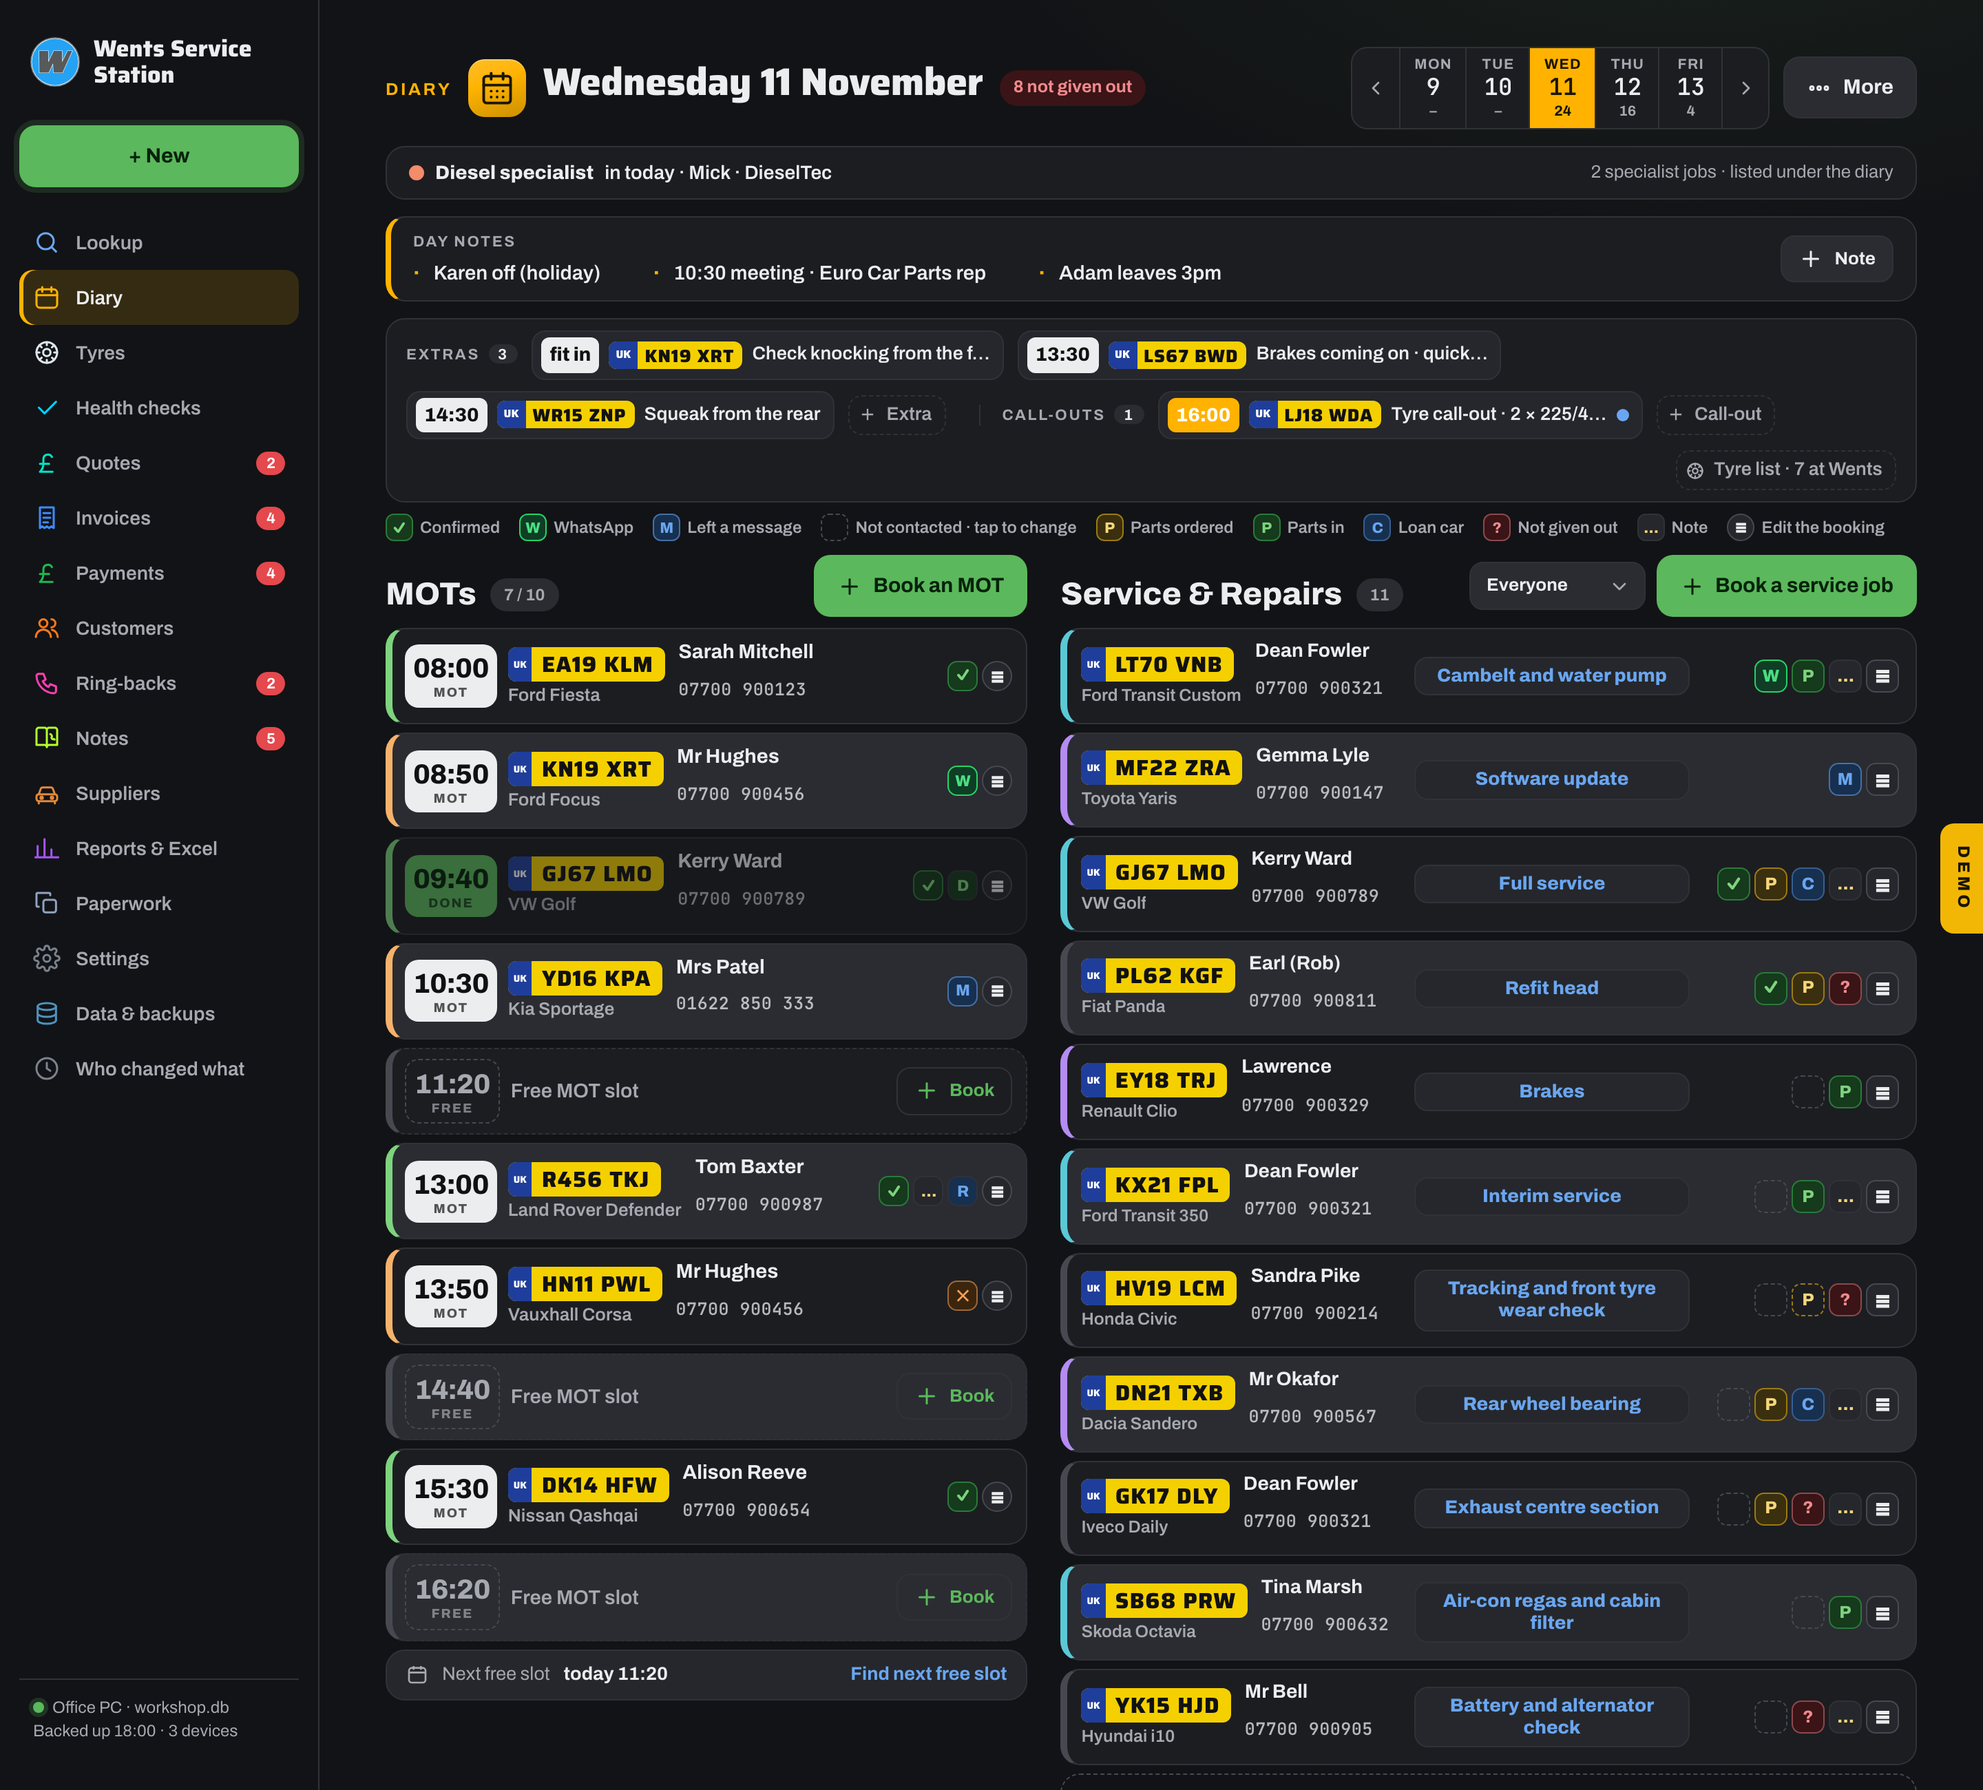
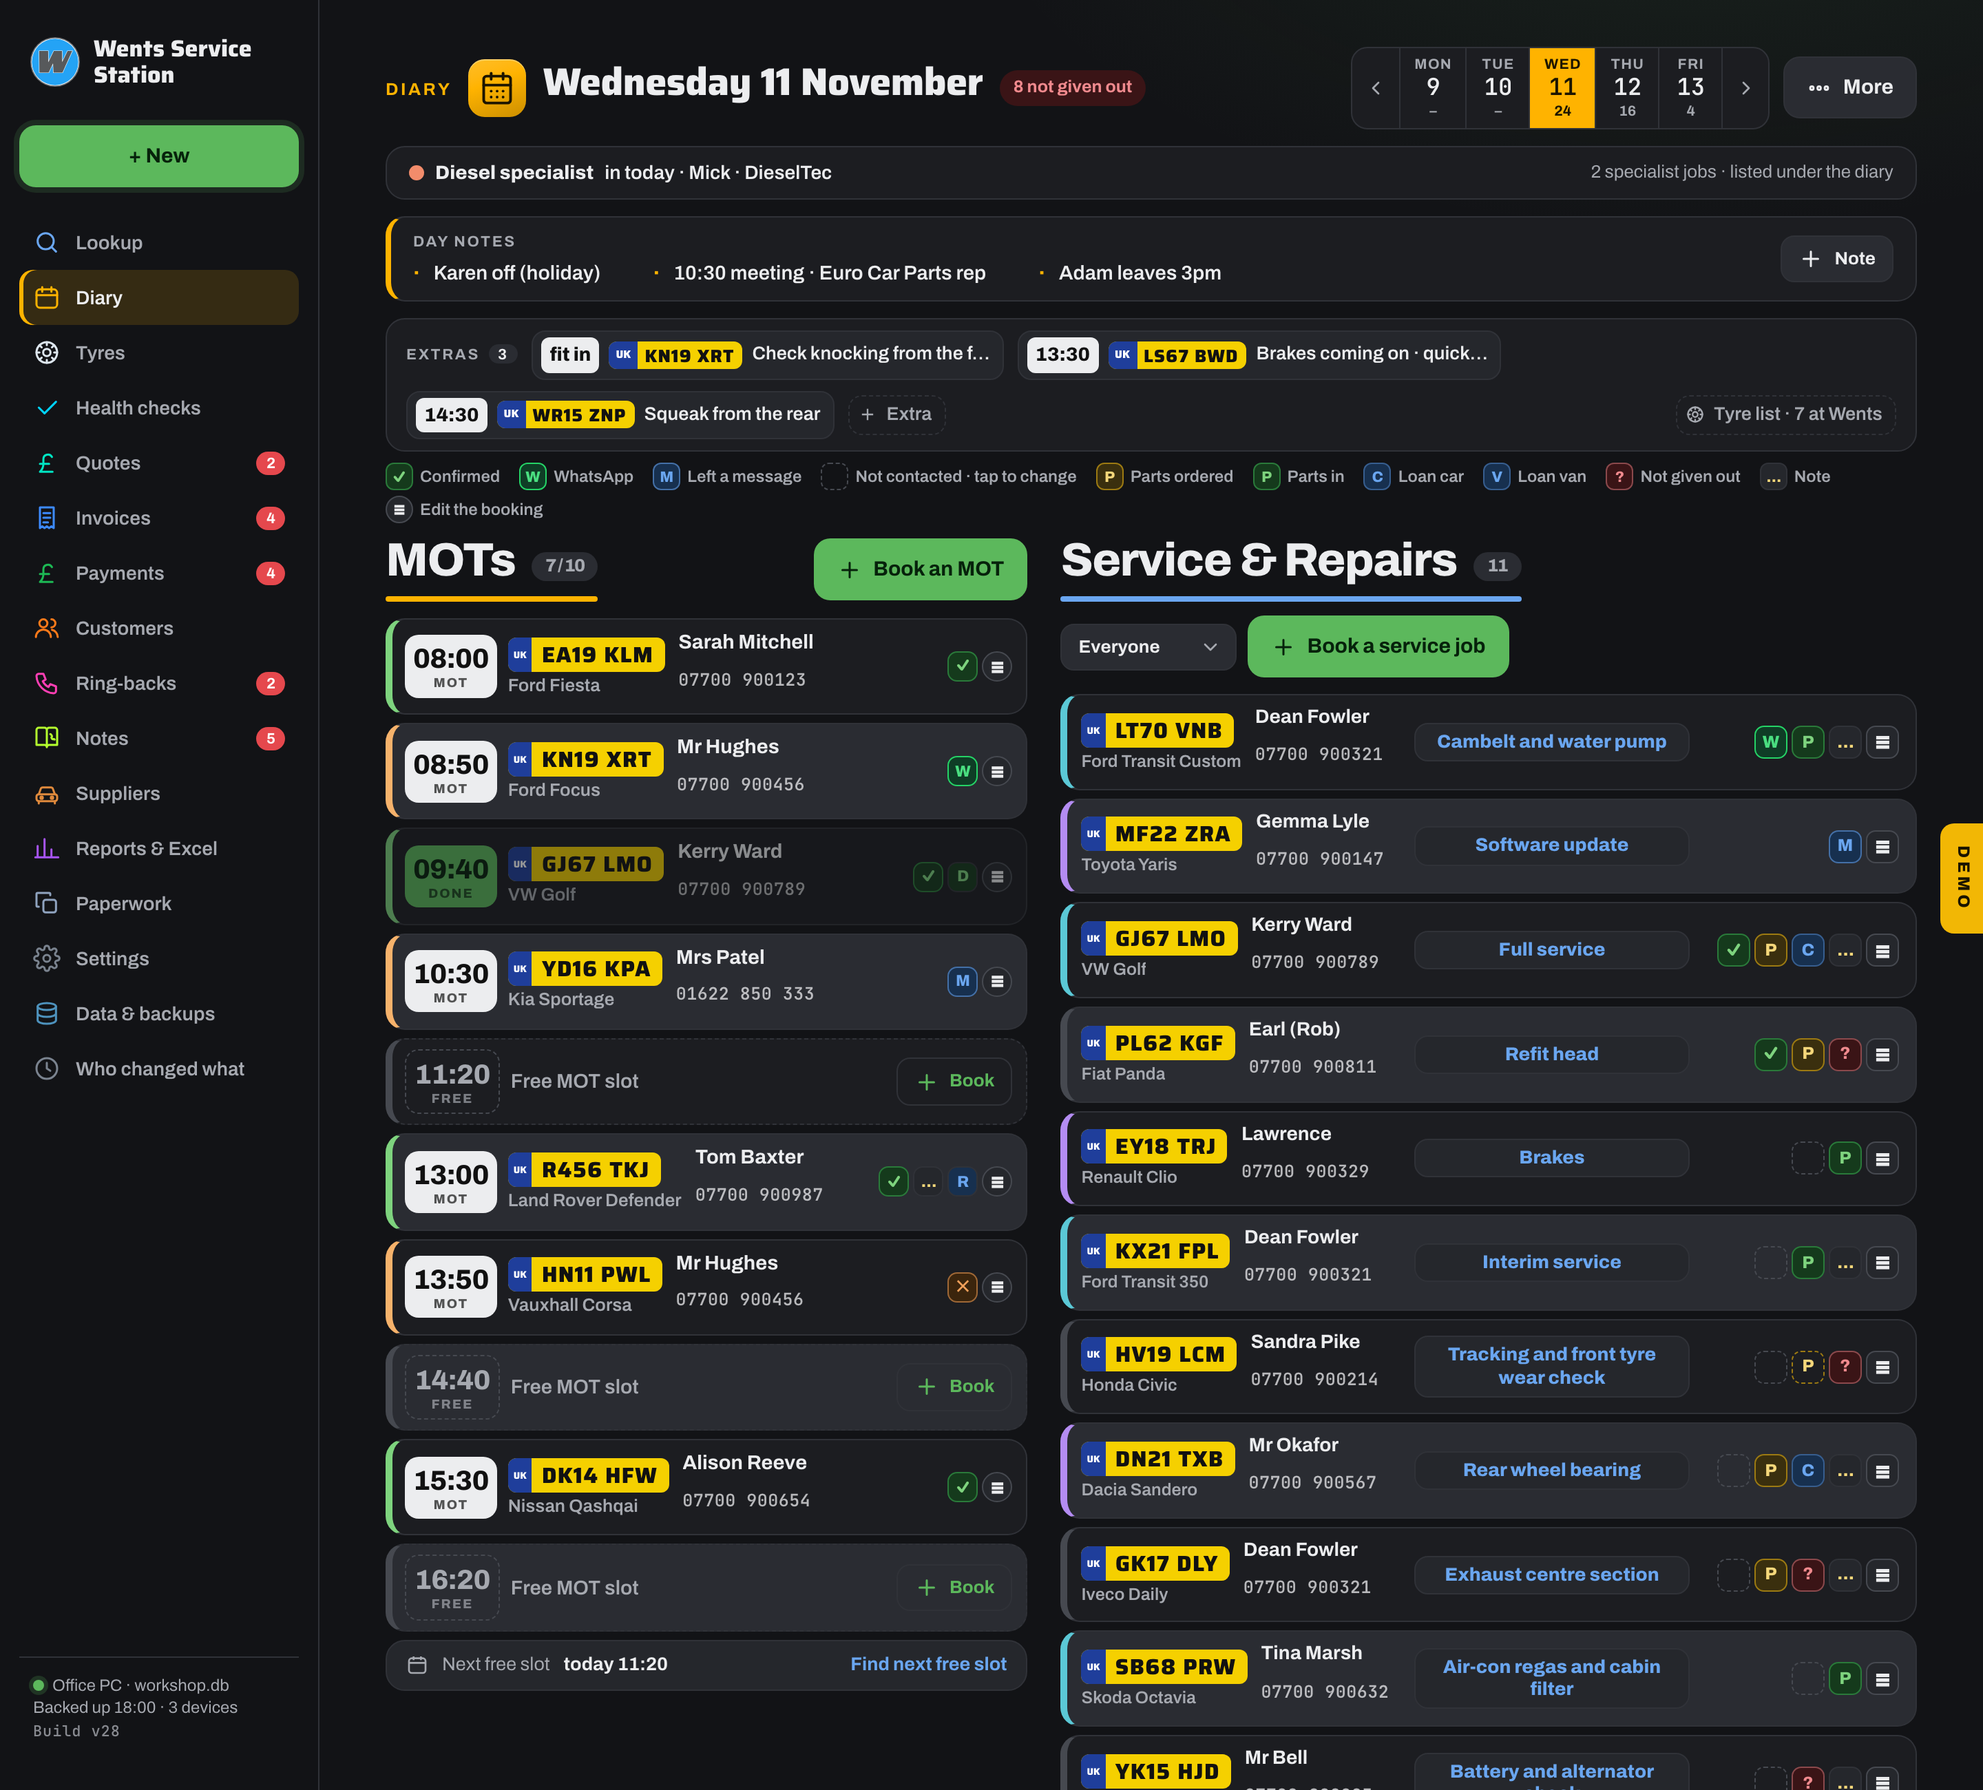
Mock round 32: call-outs removed from the top-of-diary strip (Tyre list link kept with Extras), Loan van added to the legend and the loan field relabelled Courtesy car or van, MOTs and Service & Repairs column titles bigger and heavier with a colour bar under each (amber for MOTs, blue for Service);

diff --git a/mock/index.html b/mock/index.html
@@ -885,6 +885,7 @@ a.stat{display:block} a.stat:hover{border-color:var(--line-strong)}
 /* round 19 · diary: notes across the top, section buttons, booking form in two equal columns */
 .secctl{display:flex;gap:8px;align-items:center;flex-wrap:wrap} .secctl .sel{margin:0}
 .dvsec .sechd{margin-bottom:8px} .dvsec .sechd .btn.pri{box-shadow:none}
+.dv .dvsec.colh .sechd{align-items:center;margin-bottom:12px} .dv .dvsec.colh h2{position:relative;font-size:30px;font-weight:900;letter-spacing:-.025em;line-height:1;padding:0 0 12px;gap:12px;align-items:baseline} .dv .dvsec.colh h2::after{content:'';position:absolute;left:0;bottom:0;height:4px;width:100%;border-radius:2px;background:var(--hc)} .dv .dvsec.colh.mot{--hc:#FFB300} .dv .dvsec.colh.svc{--hc:var(--accent)} .dv .dvsec.colh h2 .pill{font-size:13px;font-weight:800;padding:4px 10px;transform:translateY(-3px)} @media (min-width:1400px){.dv .dvsec.colh h2{font-size:34px}} @media (max-width:600px){.dv .dvsec.colh h2{font-size:26px;padding-bottom:9px} .dv .dvsec.colh h2::after{height:3px}}
 .bk2{display:grid;grid-template-columns:1fr 1fr;gap:0 18px} .bk2>.field{min-width:0} .bk2.bkx{grid-template-columns:repeat(auto-fit,minmax(230px,1fr))}
 .bkbox h2{display:flex;align-items:baseline;gap:12px;flex-wrap:wrap} .bkday{font-size:14px;font-weight:700;color:var(--sc,var(--accent));letter-spacing:.02em}
 .bkbox .regin{font-family:var(--font-mono);font-weight:700;letter-spacing:.06em}
@@ -1643,10 +1644,10 @@ S.diary=()=>{if(pendBook){const r=pendBook;pendBook=null;setTimeout(()=>{openBk(
   const xt=b.k==='xtra'?`<span class="xt"><b>${b.t||'fit in'}</b>${b.mins?' · '+b.mins+' min':''}</span>`:b.k==='tyre'?`<span class="xt"><b>${b.t||'—'}</b> · call-out</span>`:b.k==='spec'?`<span class="xt"><b>${b.t||'—'}</b></span>`:'';
   return `<div class="dvjob k-${b.k}" style="--who:${sp?sp.c:b.who?(WHO[b.who]||{c:'var(--line-strong)'}).c:'var(--line-strong)'}" onclick="openBk('${b.id}')"><div class="bm">${xt?`<div class="jt">${xt}</div>`:''}${carCus(b,i)}${b.k==='tyre'&&b.addr?`<div class="nt">${I.pin} ${esc(b.addr)}</div>`:''}</div><div class="jbx">${b.job?`<span class="jb">${b.job}</span>`:'<span class="muted">No job written down</span>'}</div><div class="rt">${ty?`<span class="pill ${TYCS[ty.r.cs][1]}">${TYCS[ty.r.cs][0]}</span><a class="pill" href="#/tyres/${ty.d}" onclick="event.stopPropagation()">${TYI}Tyre diary</a>`:''}${sqs(b,{cf:!ty,ng:!sp})}${edBtn(b)}</div></div>`};
  const addRow=(l,k)=>`<div class="dvjob add" onclick="openBk('new','${k}')"><span class="muted">${I.plus} ${l}</span></div>`;
- const sec=(k,h,cap,ctl,body)=>show(k)?`<section class="dvsec"><div class="sechd"><div><h2>${h}</h2>${cap?`<p class="cap">${cap}</p>`:''}</div>${ctl||''}</div>${body}</section>`:'';
+ const sec=(k,h,cap,ctl,body)=>show(k)?`<section class="dvsec${k==='svc'?' colh svc':''}"><div class="sechd"><div><h2>${h}</h2>${cap?`<p class="cap">${cap}</p>`:''}</div>${ctl||''}</div>${body}</section>`:'';
  const ab=(t,n=26)=>{t=String(t||'');return t.length>n?t.slice(0,n-1).trim()+'…':t};
  const sx=b=>{const i=bkV(b);return `<button class="dsx ${b.k}" onclick="openBk('${b.id}')" title="${esc(b.job||'')}"><b>${b.t||(b.k==='xtra'?'fit in':'—')}</b>${plate(b.reg,'sm')}<span>${esc(ab(b.job||i.make||i.name))}</span>${b.k==='tyre'&&b.ty?(x=>x?`<i class="d ${TYCS[x.r.cs][1]}" title="${TYCS[x.r.cs][0]}"></i>`:'')(tyFind(b.ty)):''}</button>`};
- const strip=dTab==='all'?`<div class="dvstrip"><div class="lbl">Extras<em>${xtra.length}</em></div><div class="sxs">${xtra.map(sx).join('')}<button class="dsx add" onclick="openBk('new','xtra')">${I.plus}Extra</button></div><div class="lbl">Call-outs<em>${tyr.length}</em></div><div class="sxs">${tyr.map(sx).join('')}<button class="dsx add" onclick="openBk('new','tyre')">${I.plus}Call-out</button><a class="dsx lnk" href="#/tyres/${day}">${TYI}Tyre list · ${tyn.cars} at Wents</a></div></div>`:'';
+ const strip=dTab==='all'?`<div class="dvstrip"><div class="lbl">Extras<em>${xtra.length}</em></div><div class="sxs">${xtra.map(sx).join('')}<button class="dsx add" onclick="openBk('new','xtra')">${I.plus}Extra</button><a class="dsx lnk" href="#/tyres/${day}">${TYI}Tyre list · ${tyn.cars} at Wents</a></div></div>`:'';
  const whoSel=`<select class="sel" onchange="whoF=this.value;go()" title="Whose jobs to show">${[['all','Everyone'],...Object.entries(FITTERS).map(([k,w])=>[k,w.n]),['none','Not given out']].map(([k,l])=>`<option value="${k}" ${whoF===k?'selected':''}>${l}</option>`).join('')}</select>`;
  return `<div class="dv tm-${tmv}">
  <div class="dvh"><div class="dvt"><span class="eyebrow">Diary</span><h1 class="title">${fmt(day,{weekday:'long',day:'numeric',month:'long'})}</h1>${none?`<span class="pill r" title="Jobs not given to anyone yet">${none} not given out</span>`:''}</div>
@@ -1656,9 +1657,9 @@ S.diary=()=>{if(pendBook){const r=pendBook;pendBook=null;setTimeout(()=>{openBk(
  ${sps.length&&dTab==='all'?`<div class="spban">${sps.map(x=>`<span class="spw" style="--c:${x.c}"><i></i><b>${x.n}</b> in today · ${x.who}</span>`).join('')}<span class="spn">${spec.length} specialist job${spec.length===1?'':'s'} · listed under the diary</span></div>`:''}
  ${dTab==='all'?`<div class="dvnotes"><div><div class="lbl">Day notes</div><ul>${notes.map((n,ix)=>`<li><span onclick="editNote(${ix})" title="Edit note">${n}</span><button class="x" onclick="NOTES['${day}'].splice(${ix},1);go()" title="Delete note">${I.x}</button></li>`).join('')||'<li class="none">Nothing noted · who is off, meeting times · prints at the top of the A4 sheet</li>'}</ul></div><button class="btn sm" onclick="addNote()">${I.plus}Note</button></div>`:''}
  ${strip}
- <div class="dvkey"><span><i class="sq cf ok">&#10003;</i>Confirmed</span><span><i class="sq cf wa">W</i>WhatsApp</span><span><i class="sq cf msg">M</i>Left a message</span><span><i class="sq cf none"></i>Not contacted · tap to change</span><span><i class="sq pt ordered">P</i>Parts ordered</span><span><i class="sq pt in">P</i>Parts in</span><span><i class="sq ln">C</i>Loan car</span><span><i class="sq ng">?</i>Not given out</span><span><i class="sq nq">&#8230;</i>Note</span><span><i class="wlb edb">&#8801;</i>Edit the booking</span></div>
+ <div class="dvkey"><span><i class="sq cf ok">&#10003;</i>Confirmed</span><span><i class="sq cf wa">W</i>WhatsApp</span><span><i class="sq cf msg">M</i>Left a message</span><span><i class="sq cf none"></i>Not contacted · tap to change</span><span><i class="sq pt ordered">P</i>Parts ordered</span><span><i class="sq pt in">P</i>Parts in</span><span><i class="sq ln">C</i>Loan car</span><span><i class="sq ln">V</i>Loan van</span><span><i class="sq ng">?</i>Not given out</span><span><i class="sq nq">&#8230;</i>Note</span><span><i class="wlb edb">&#8801;</i>Edit the booking</span></div>
  <div class="cols ${dTab==='all'?'':'one'}">
- ${show('mot')?`<section class="dvsec"><div class="sechd"><div><h2>MOTs <span class="pill ${freeN?'':'g'}">${mot.length} / ${SLOTS.length}</span></h2></div><button class="btn pri" onclick="openBk('new','mot')">${I.plus}Book an MOT</button></div><div class="dvramp">${SLOTS.map(slotRow).join('')}<div class="nextfree">${I.cal}${freeN?`Next free slot <b>${day===TD?'today':fmt(day,{weekday:'long'})} ${freeT[0]}</b>`:'<b>Ramp full</b>'}<a onclick="nextSlot()">Find next free slot</a></div></div></section>`:''}
+ ${show('mot')?`<section class="dvsec colh mot"><div class="sechd"><div><h2>MOTs <span class="pill ${freeN?'':'g'}">${mot.length} / ${SLOTS.length}</span></h2></div><button class="btn pri" onclick="openBk('new','mot')">${I.plus}Book an MOT</button></div><div class="dvramp">${SLOTS.map(slotRow).join('')}<div class="nextfree">${I.cal}${freeN?`Next free slot <b>${day===TD?'today':fmt(day,{weekday:'long'})} ${freeT[0]}</b>`:'<b>Ramp full</b>'}<a onclick="nextSlot()">Find next free slot</a></div></div></section>`:''}
  ${dTab!=='mot'?`<div class="dvr">
  ${sec('svc',`Service &amp; Repairs <span class="pill">${svc.length}</span>`,'',`<div class="secctl">${whoSel}<button class="btn pri" onclick="openBk('new','svc')">${I.plus}Book a service job</button></div>`,`<div class="dvlist">${svc.map(jobRow).join('')||'<div class="empty">Nothing booked.</div>'}${addRow('Add a job','svc')}</div>`)}
  ${dTab==='xtra'?sec('xtra',`Extras <span class="pill y">${xtra.length}</span>`,'Diagnostics and quick checks squeezed in between jobs',`<div class="secctl">${dTab==='xtra'?whoSel:''}<button class="btn tint" onclick="openBk('new','xtra')">${I.plus}Add an extra</button></div>`,`<div class="dvlist">${xtra.map(jobRow).join('')||'<div class="empty">Nothing squeezed in yet.</div>'}${addRow('Add an extra','xtra')}</div>`):''}
@@ -1690,7 +1691,7 @@ const bkModal=()=>{const b=edBk;const i=bkV(b);const d0=b.day||day;const mon0=ad
   <div class="fbox who"><span>Who's on it</span><div class="opts chips fit">${Object.entries(FITTERS).map(([k,w])=>`<button class="${b.who===k?'on':''}" style="--c:${w.c}" onclick="edBk.who='${k}';go()">${w.n}</button>`).join('')}${b.who&&!FITTERS[b.who]?`<button class="on" onclick="edBk.who='${b.who}';go()">${WHO[b.who]?WHO[b.who].n:b.who}</button>`:''}<button class="${!b.who?'on':''}" onclick="edBk.who='';go()">Nobody yet</button></div></div>
   <div class="fbox"><span>Confirmed for the day?</span><div class="opts">${[['ok','Confirmed'],['wa','WhatsApp'],['msg','Left a message'],['noans','No answer']].map(([k,l])=>`<button class="${cfSt(b)===k?'on':''}" onclick="edBk.cf={st:'${cfSt(b)===k?'none':k}',who:ME,at:nowS()};go()">${k==='noans'?'':`<i class="cfi ${k}"></i>`}${l}</button>`).join('')}</div>${b.cf&&b.cf.who?`<div class="muted small fst">${WHO[b.cf.who]?WHO[b.cf.who].n:b.cf.who} · ${b.cf.at}</div>`:''}</div>
   <div class="fbox"><span>Parts</span><div class="opts">${[['ordered','Parts ordered'],['in','Parts in']].map(([v,l])=>`<button class="${b.parts===v?'on':''}" onclick="edBk.parts=edBk.parts==='${v}'?'':'${v}';go()">${l}</button>`).join('')}</div><input class="ptn" value="${esc(b.partsNote||'')}" placeholder="What to order…" oninput="edBk.partsNote=this.value"></div>
-  <div class="fbox"><span>Courtesy car</span><div class="opts">${[['car','Loan car'],['van','Loan van'],['svan','Loan small van']].map(([v,l])=>`<button class="${b.loan===v?'on':''}" onclick="edBk.loan=edBk.loan==='${v}'?'':'${v}';go()">${l}</button>`).join('')}</div></div>
+  <div class="fbox"><span>Courtesy car or van</span><div class="opts">${[['car','Loan car'],['van','Loan van'],['svan','Loan small van']].map(([v,l])=>`<button class="${b.loan===v?'on':''}" onclick="edBk.loan=edBk.loan==='${v}'?'':'${v}';go()">${l}</button>`).join('')}</div></div>
  </div>
  ${b.fresh?'':audPanel('booking',b.id)}
  <div class="btns">${b.fresh?'':`<button class="btn ghost red" onclick="delBk('${b.id}')">Delete</button>${(w=>w?`<button class="btn ghost" onclick="wlShow('${w.id}')">${I.clock}On the waiting list</button>`:`<button class="btn ghost" onclick="wlFlag('${b.id}')">${I.clock}Waiting for earlier slot</button>`)(wlOf(b.id))}${b.k==='tyre'?'':`<button class="btn ghost" onclick="tyAddBk('${b.id}')">${TYI}Add to tyre list</button>`}`}<span style="flex:1"></span><button class="btn" onclick="closeBk()">Cancel</button>${unknown?`<button class="btn tint" onclick="bkPick(true)">Add to an existing customer</button><button class="btn pri" onclick="saveBk('new')">${I.plus}Save as new customer</button>`:''}<button class="btn ${unknown?'':'pri'}" onclick="saveBk()">${I.check}${b.move?'Move':unknown?'Save booking only':'Save'}</button></div></div></div>`};
@@ -1708,7 +1709,7 @@ const bkView=(b,i,d0,sps)=>{const KV={mot:'MOT',svc:'Service &amp; Repairs',xtra
   <div class="vb vst" style="--vc:#2DD4BF"><div class="vbh">Status</div><div class="vrows">
    ${row('Confirmed',`<span class="cfl">${cfDot(b)}</span>${b.cf&&b.cf.who?`<span class="muted small">${WHO[b.cf.who]?WHO[b.cf.who].n:b.cf.who} · ${b.cf.at}</span>`:''}`)}
    ${row('Parts',b.parts&&PARTS[b.parts]?`<span class="pill g">${PARTS[b.parts][0]}</span>`:b.partsNote?'<span class="pill y">To order</span>':'')}
-   ${row('Courtesy car',b.loan?`<span class="pill b">${LOAN[b.loan]}</span>`:'')}
+   ${row('Courtesy car or van',b.loan?`<span class="pill b">${LOAN[b.loan]}</span>`:'')}
    ${row('On it',b.who&&WHO[b.who]?`<span class="pill who" style="--c:${WHO[b.who].c}">${WHO[b.who].n}</span>`:sp?`<span class="pill who" style="--c:${sp.c}">${esc(sp.who)}</span>`:'<span class="pill r">Not given out</span>')}
    ${row('Waiting list',w?`<span class="pill ${w.st==='wait'?'y':'g'} wl">${w.st==='wait'?'Waiting for a cancellation':w.st==='moved'?'Moved forward':'Rebooked'}</span>`:'')}
    ${(x=>x?row('Also',x):'')(bkPills(b)+(b.st==='done'?'<span class="pill g">Done</span>':''))}

diff --git a/mock/sw.js b/mock/sw.js
@@ -1,6 +1,6 @@
 // Workshop (Garage System mock) offline support: keeps a copy of the app so it opens with no signal.
 // Bump VERSION whenever index.html, makes.js, logos or icons change, so installed copies pick up the update.
-const VERSION = 'workshop-v27';
+const VERSION = 'workshop-v28';
 const CORE = [
   './',
   'index.html',
